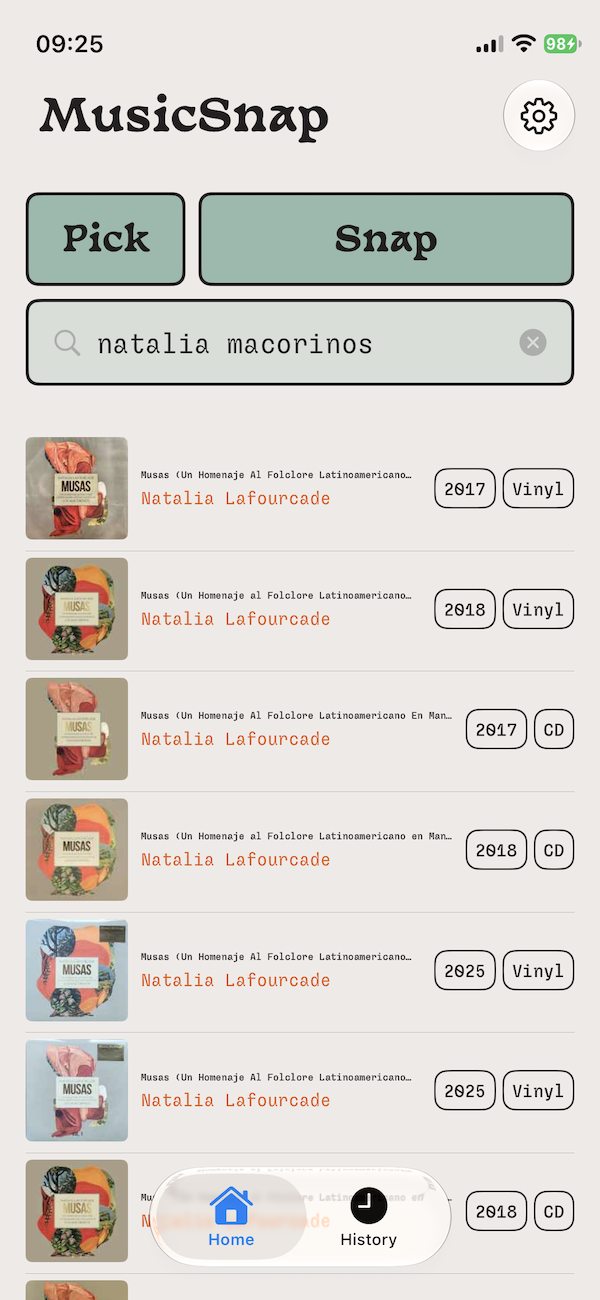
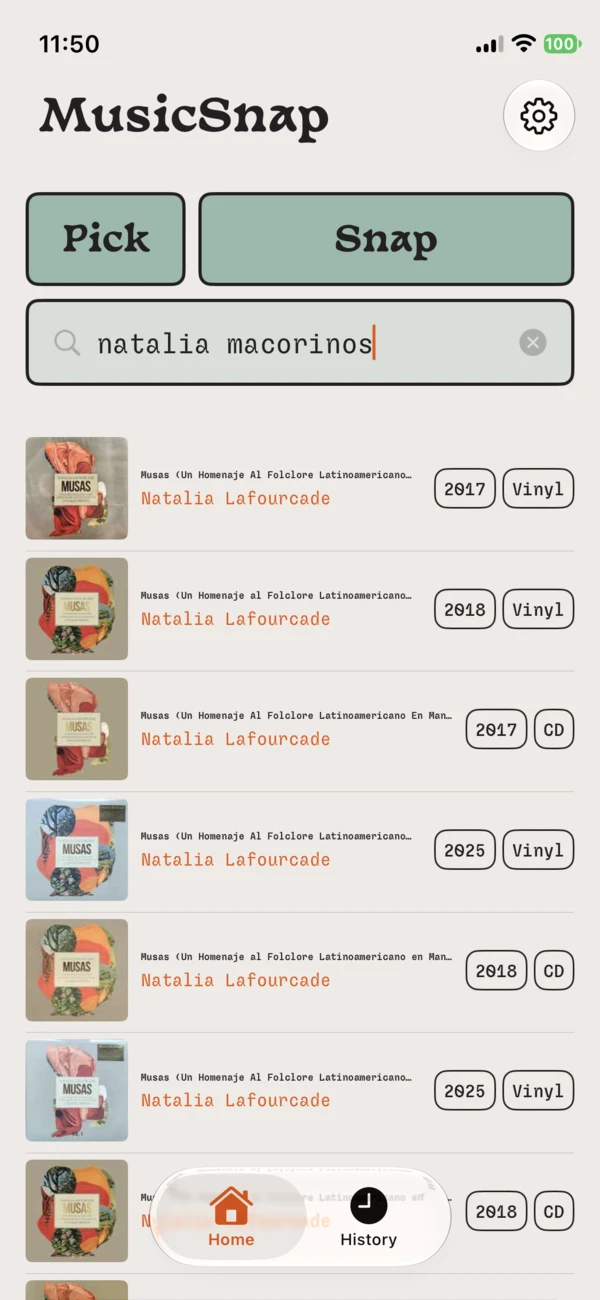
Set accent color.

diff --git a/Snapper/Features/Settings/SchemeSelectionView.swift b/Snapper/Features/Settings/SchemeSelectionView.swift
@@ -15,9 +15,10 @@ struct SchemeSelectionView: View {
 
             Image(systemName: "checkmark")
               .opacity(selection == option ? 1 : 0)
+              .foregroundStyle(.secondary)
           }
         }
-        // .foregroundStyle(.themePrimary)
+        .buttonStyle(.plain)
       }
     }
   }

diff --git a/Snapper/Features/Settings/SettingsSheet.swift b/Snapper/Features/Settings/SettingsSheet.swift
@@ -17,7 +17,6 @@ struct SettingsSheet: View {
                 .frame(maxWidth: .infinity, alignment: .leading)
 
               Text(preference.displayName)
-              // .foregroundStyle(.themeSecondary)
             }
           }
         } footer: {

diff --git a/Snapper/Features/AlbumDetail/AlbumDetailView.swift b/Snapper/Features/AlbumDetail/AlbumDetailView.swift
@@ -279,7 +279,7 @@ private struct AlbumTrackRow: View {
     // .disabled(track.previewUrl == nil)
     .foregroundStyle(
       isPlaying
-        ? .themeRed
+        ? .accent
         : .themePrimaryInverted
     )
     .animation(

diff --git a/Snapper/UI/Components/AlbumHeader.swift b/Snapper/UI/Components/AlbumHeader.swift
@@ -38,7 +38,7 @@ struct AlbumHeader: View {
 
       Text(artist)
         .font(.sligoilMicro(artistStyle))
-        .foregroundStyle(.themeRed)
+        .foregroundStyle(.accent)
     }
   }
 }
